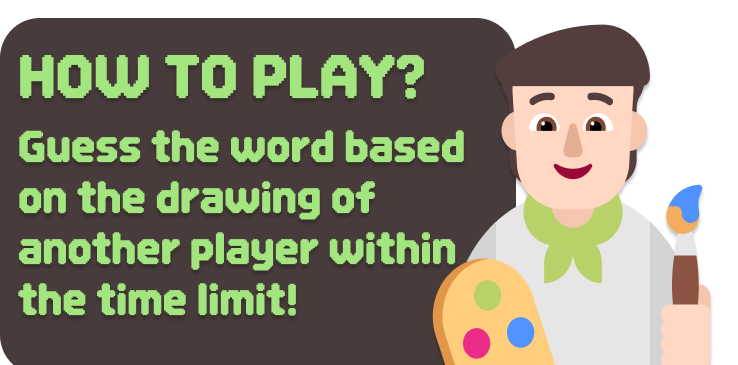
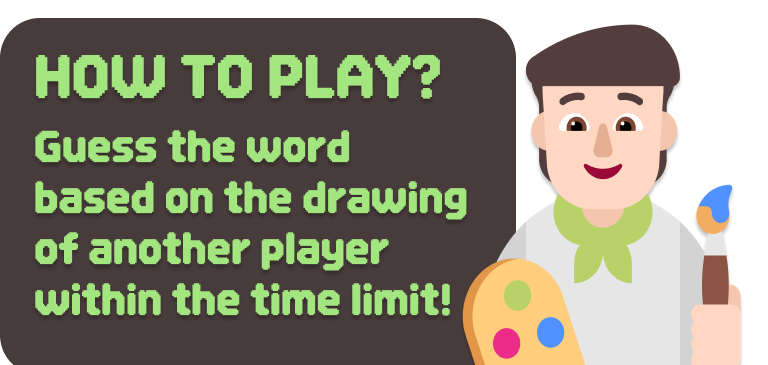
edit home img

diff --git a/Gangtic-Phone/src/client/home.c b/Gangtic-Phone/src/client/home.c
@@ -71,7 +71,7 @@ void render_home_screen(SDL_Renderer *renderer)
     SDL_Rect setting_button_rect = {58, 822, 368, 141};
     SDL_RenderCopy(renderer, setting_button_texture, NULL, &setting_button_rect);
 
-    SDL_Rect home_howto_rect = {702, 590, 749, 394};
+    SDL_Rect home_howto_rect = {661, 663, 779, 394};
     SDL_RenderCopy(renderer, home_howto_texture, NULL, &home_howto_rect);
 
 
